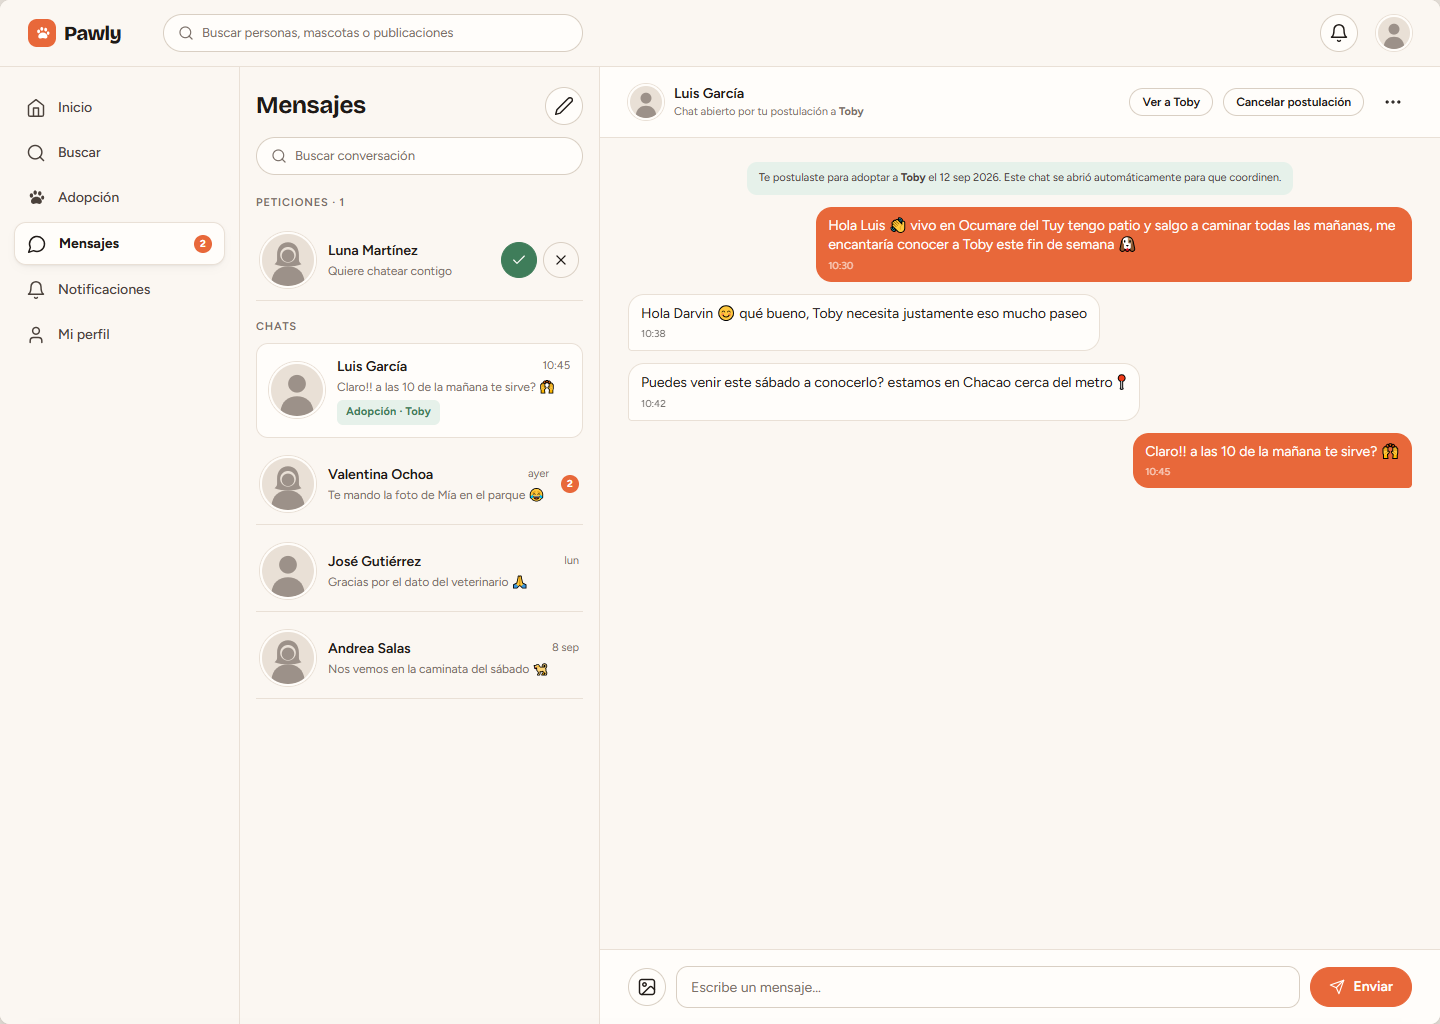
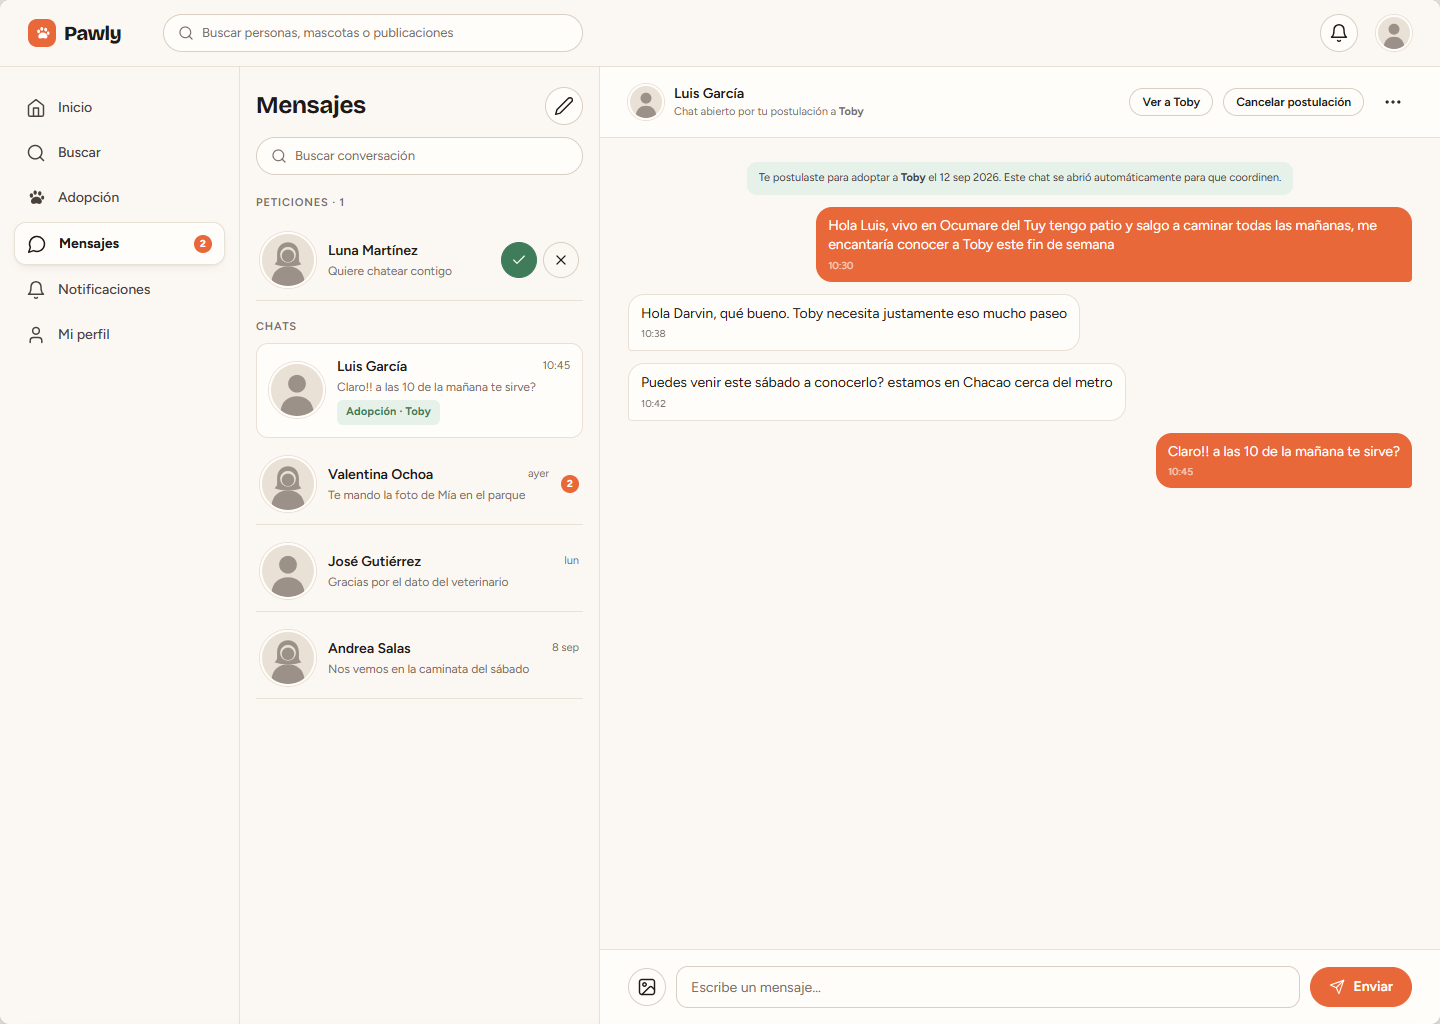
Prototipos: chats sin emojis

Changed region(s): [[0.625, 0.2188, 0.9688, 0.25], [0.7812, 0.4062, 0.9688, 0.5], [0.5, 0.2812, 0.75, 0.3125]]

diff --git a/prototipo/desktop.html b/prototipo/desktop.html
@@ -288,7 +288,7 @@
       <div class="row between"><div class="h2">Postularte para adoptar a Toby</div><div class="iconbtn"><svg class="i"><use href="#i-x"/></svg></div></div>
       <div class="row card pad flat" style="gap:12px;background:var(--surface-2);border:none;"><img src="img/d1.jpg" alt="" style="width:56px;height:56px;object-fit:cover;border-radius:12px;"><div class="col" style="gap:0"><span class="strong small">Toby · Mestizo · 2 años</span><span class="xs muted">Publicado por Luis García</span></div></div>
       <p class="small muted">Se abrirá un chat con Luis para que coordinen la visita. Cuéntale por qué quieres adoptar a Toby.</p>
-      <div class="field"><label>Mensaje para Luis</label><div class="input ta" style="min-height:110px;"><span>Hola Luis 👋 vivo en Ocumare del Tuy tengo patio y salgo a caminar todas las mañanas, me encantaría conocer a Toby este fin de semana 🐶</span></div></div>
+      <div class="field"><label>Mensaje para Luis</label><div class="input ta" style="min-height:110px;"><span>Hola Luis, vivo en Ocumare del Tuy tengo patio y salgo a caminar todas las mañanas, me encantaría conocer a Toby este fin de semana</span></div></div>
       <div class="row wrap" style="gap:8px"><span class="chip on"><svg class="i xs"><use href="#i-check"/></svg>Tengo patio</span><span class="chip on"><svg class="i xs"><use href="#i-check"/></svg>Sin otras mascotas</span><span class="chip">Tengo niños</span><span class="chip">Vivo en apartamento</span></div>
       <div class="row between" style="margin-top:4px"><span class="xs muted">Puedes cancelar la postulación desde el chat.</span><div class="row"><span class="btn ghost">Cancelar</span><span class="btn">Enviar postulación</span></div></div>
     </div>
@@ -307,19 +307,19 @@
         <p class="eyebrow" style="margin:8px 0 2px;">Peticiones · 1</p>
         <div class="convo"><img class="avatar lg" src="img/avatar-m.svg" alt=""><div class="col grow" style="gap:1px"><span class="name">Luna Martínez</span><span class="last">Quiere chatear contigo</span></div><div class="row" style="gap:6px"><div class="btn icon sm" style="background:var(--green);border-color:var(--green)"><svg class="i sm"><use href="#i-check"/></svg></div><div class="btn icon sm ghost"><svg class="i sm"><use href="#i-x"/></svg></div></div></div>
         <p class="eyebrow" style="margin:12px 0 2px;">Chats</p>
-        <div class="convo active"><img class="avatar lg" src="img/avatar-h.svg" alt=""><div class="col grow" style="gap:1px"><div class="row between"><span class="name">Luis García</span><span class="time">10:45</span></div><span class="last truncate">Claro!! a las 10 de la mañana te sirve? 🙌</span><span class="tag green" style="align-self:flex-start;margin-top:3px">Adopción · Toby</span></div></div>
-        <div class="convo"><img class="avatar lg" src="img/avatar-m.svg" alt=""><div class="col grow" style="gap:1px"><div class="row between"><span class="name">Valentina Ochoa</span><span class="time">ayer</span></div><span class="last truncate">Te mando la foto de Mía en el parque 😂</span></div><span class="badge">2</span></div>
-        <div class="convo"><img class="avatar lg" src="img/avatar-h.svg" alt=""><div class="col grow" style="gap:1px"><div class="row between"><span class="name">José Gutiérrez</span><span class="time">lun</span></div><span class="last truncate">Gracias por el dato del veterinario 🙏</span></div></div>
-        <div class="convo"><img class="avatar lg" src="img/avatar-m.svg" alt=""><div class="col grow" style="gap:1px"><div class="row between"><span class="name">Andrea Salas</span><span class="time">8 sep</span></div><span class="last truncate">Nos vemos en la caminata del sábado 🐕</span></div></div>
+        <div class="convo active"><img class="avatar lg" src="img/avatar-h.svg" alt=""><div class="col grow" style="gap:1px"><div class="row between"><span class="name">Luis García</span><span class="time">10:45</span></div><span class="last truncate">Claro!! a las 10 de la mañana te sirve?</span><span class="tag green" style="align-self:flex-start;margin-top:3px">Adopción · Toby</span></div></div>
+        <div class="convo"><img class="avatar lg" src="img/avatar-m.svg" alt=""><div class="col grow" style="gap:1px"><div class="row between"><span class="name">Valentina Ochoa</span><span class="time">ayer</span></div><span class="last truncate">Te mando la foto de Mía en el parque</span></div><span class="badge">2</span></div>
+        <div class="convo"><img class="avatar lg" src="img/avatar-h.svg" alt=""><div class="col grow" style="gap:1px"><div class="row between"><span class="name">José Gutiérrez</span><span class="time">lun</span></div><span class="last truncate">Gracias por el dato del veterinario</span></div></div>
+        <div class="convo"><img class="avatar lg" src="img/avatar-m.svg" alt=""><div class="col grow" style="gap:1px"><div class="row between"><span class="name">Andrea Salas</span><span class="time">8 sep</span></div><span class="last truncate">Nos vemos en la caminata del sábado</span></div></div>
       </div>
       <div class="content" style="padding:0;gap:0;">
         <div class="row" style="padding:16px 28px;border-bottom:1px solid var(--line);background:var(--surface);"><img class="avatar" src="img/avatar-h.svg" alt=""><div class="col" style="gap:0"><span class="strong">Luis García</span><span class="xs muted">Chat abierto por tu postulación a <strong>Toby</strong></span></div><div class="grow"></div><span class="btn sm ghost">Ver a Toby</span><span class="btn sm ghost">Cancelar postulación</span><div class="iconbtn"><svg class="i"><use href="#i-more"/></svg></div></div>
         <div class="col grow" style="padding:24px 28px;gap:12px;overflow:hidden;">
           <div class="sysmsg">Te postulaste para adoptar a <strong>Toby</strong> el 12 sep 2026. Este chat se abrió automáticamente para que coordinen.</div>
-          <div class="bubble me">Hola Luis 👋 vivo en Ocumare del Tuy tengo patio y salgo a caminar todas las mañanas, me encantaría conocer a Toby este fin de semana 🐶<span class="time">10:30</span></div>
-          <div class="bubble them">Hola Darvin 😊 qué bueno, Toby necesita justamente eso mucho paseo<span class="time">10:38</span></div>
-          <div class="bubble them">Puedes venir este sábado a conocerlo? estamos en Chacao cerca del metro 📍<span class="time">10:42</span></div>
-          <div class="bubble me">Claro!! a las 10 de la mañana te sirve? 🙌<span class="time">10:45</span></div>
+          <div class="bubble me">Hola Luis, vivo en Ocumare del Tuy tengo patio y salgo a caminar todas las mañanas, me encantaría conocer a Toby este fin de semana<span class="time">10:30</span></div>
+          <div class="bubble them">Hola Darvin, qué bueno. Toby necesita justamente eso mucho paseo<span class="time">10:38</span></div>
+          <div class="bubble them">Puedes venir este sábado a conocerlo? estamos en Chacao cerca del metro<span class="time">10:42</span></div>
+          <div class="bubble me">Claro!! a las 10 de la mañana te sirve?<span class="time">10:45</span></div>
         </div>
         <div class="row" style="padding:16px 28px;border-top:1px solid var(--line);background:var(--surface);"><div class="iconbtn bordered"><svg class="i"><use href="#i-image"/></svg></div><div class="input grow"><span class="ph">Escribe un mensaje…</span></div><div class="btn"><svg class="i sm"><use href="#i-send"/></svg>Enviar</div></div>
       </div>

diff --git a/prototipo/mobile.html b/prototipo/mobile.html
@@ -221,7 +221,7 @@
       <div class="handle"></div>
       <div class="h2">Postularte para adoptar a Toby</div>
       <p class="small muted">Se abrirá un chat con Luis García para que coordinen. Cuéntale por qué quieres adoptarlo.</p>
-      <div class="field"><label>Mensaje para Luis</label><div class="input ta"><span style="font-size:13px">Hola Luis 👋 vivo en Ocumare del Tuy tengo patio y salgo a caminar todas las mañanas, me encantaría conocer a Toby 🐶</span></div></div>
+      <div class="field"><label>Mensaje para Luis</label><div class="input ta"><span style="font-size:13px">Hola Luis, vivo en Ocumare del Tuy tengo patio y salgo a caminar todas las mañanas, me encantaría conocer a Toby</span></div></div>
       <div class="row" style="gap:8px"><span class="tag neutral"><svg class="i xs"><use href="#i-check"/></svg> Tengo patio</span><span class="tag neutral"><svg class="i xs"><use href="#i-check"/></svg> Sin otras mascotas</span></div>
       <div class="btn block">Enviar postulación</div>
       <p class="xs muted" style="text-align:center;">Puedes cancelarla desde el chat.</p>
@@ -238,9 +238,9 @@
       <p class="eyebrow" style="margin:6px 0;">Peticiones · 1</p>
       <div class="convo"><img class="avatar lg" src="img/avatar-m.svg" alt=""><div class="col grow" style="gap:1px"><span class="name">Luna Martínez</span><span class="last truncate">Quiere chatear contigo</span></div><div class="row" style="gap:6px"><div class="btn icon sm" style="background:var(--green);border-color:var(--green)"><svg class="i sm"><use href="#i-check"/></svg></div><div class="btn icon sm ghost"><svg class="i sm"><use href="#i-x"/></svg></div></div></div>
       <p class="eyebrow" style="margin:12px 0 6px;">Chats</p>
-      <div class="convo"><img class="avatar lg" src="img/avatar-h.svg" alt=""><div class="col grow" style="gap:1px"><div class="row between"><span class="name">Luis García</span><span class="time">10:42</span></div><span class="last truncate"><span class="tag green" style="padding:1px 5px;font-size:9px;margin-right:4px">Adopción · Toby</span>Claro!! puedes este sábado? 🙌</span></div><span class="badge">2</span></div>
-      <div class="convo"><img class="avatar lg" src="img/avatar-m.svg" alt=""><div class="col grow" style="gap:1px"><div class="row between"><span class="name">Valentina Ochoa</span><span class="time">ayer</span></div><span class="last truncate">Te mando la foto de Mía en el parque 😂</span></div></div>
-      <div class="convo"><img class="avatar lg" src="img/avatar-h.svg" alt=""><div class="col grow" style="gap:1px"><div class="row between"><span class="name">José Gutiérrez</span><span class="time">lun</span></div><span class="last truncate">Gracias por el dato del veterinario 🙏</span></div></div>
+      <div class="convo"><img class="avatar lg" src="img/avatar-h.svg" alt=""><div class="col grow" style="gap:1px"><div class="row between"><span class="name">Luis García</span><span class="time">10:42</span></div><span class="last truncate"><span class="tag green" style="padding:1px 5px;font-size:9px;margin-right:4px">Adopción · Toby</span>Claro!! puedes este sábado?</span></div><span class="badge">2</span></div>
+      <div class="convo"><img class="avatar lg" src="img/avatar-m.svg" alt=""><div class="col grow" style="gap:1px"><div class="row between"><span class="name">Valentina Ochoa</span><span class="time">ayer</span></div><span class="last truncate">Te mando la foto de Mía en el parque</span></div></div>
+      <div class="convo"><img class="avatar lg" src="img/avatar-h.svg" alt=""><div class="col grow" style="gap:1px"><div class="row between"><span class="name">José Gutiérrez</span><span class="time">lun</span></div><span class="last truncate">Gracias por el dato del veterinario</span></div></div>
     </div>
     <div class="bottomnav">
       <div class="item"><svg class="i"><use href="#i-home"/></svg>Inicio</div>
@@ -258,10 +258,10 @@
     <div class="topbar"><div class="iconbtn"><svg class="i"><use href="#i-back"/></svg></div><img class="avatar sm" src="img/avatar-h.svg" alt=""><div class="col" style="gap:0"><span class="strong">Luis García</span><span class="xs muted">Adopción · Toby</span></div><div class="grow"></div><div class="iconbtn"><svg class="i"><use href="#i-more"/></svg></div></div>
     <div class="content" style="gap:10px;padding:14px;">
       <div class="sysmsg">Te postulaste para adoptar a <strong>Toby</strong>. Este chat se abrió automáticamente para que coordinen.</div>
-      <div class="bubble me">Hola Luis 👋 vivo en Ocumare del Tuy tengo patio y salgo a caminar todas las mañanas, me encantaría conocer a Toby 🐶<span class="time">10:30</span></div>
-      <div class="bubble them">Hola Darvin 😊 qué bueno, Toby necesita justamente eso mucho paseo<span class="time">10:38</span></div>
-      <div class="bubble them">Puedes venir este sábado a conocerlo? estamos en Chacao 📍<span class="time">10:42</span></div>
-      <div class="bubble me">Claro!! a las 10 de la mañana te sirve? 🙌<span class="time">10:45</span></div>
+      <div class="bubble me">Hola Luis, vivo en Ocumare del Tuy tengo patio y salgo a caminar todas las mañanas, me encantaría conocer a Toby<span class="time">10:30</span></div>
+      <div class="bubble them">Hola Darvin, qué bueno. Toby necesita justamente eso mucho paseo<span class="time">10:38</span></div>
+      <div class="bubble them">Puedes venir este sábado a conocerlo? estamos en Chacao<span class="time">10:42</span></div>
+      <div class="bubble me">Claro!! a las 10 de la mañana te sirve?<span class="time">10:45</span></div>
     </div>
     <div class="row" style="padding:10px 12px;border-top:1px solid var(--line);background:var(--surface);"><div class="iconbtn"><svg class="i"><use href="#i-image"/></svg></div><div class="input sm grow"><span class="ph">Escribe un mensaje…</span></div><div class="btn icon"><svg class="i sm"><use href="#i-send"/></svg></div></div>
   </div>
